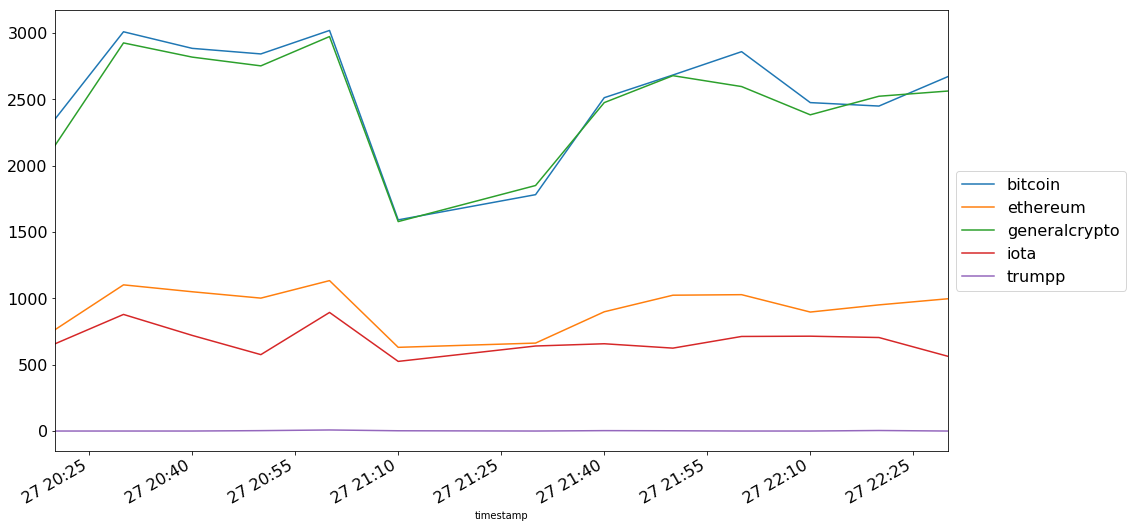
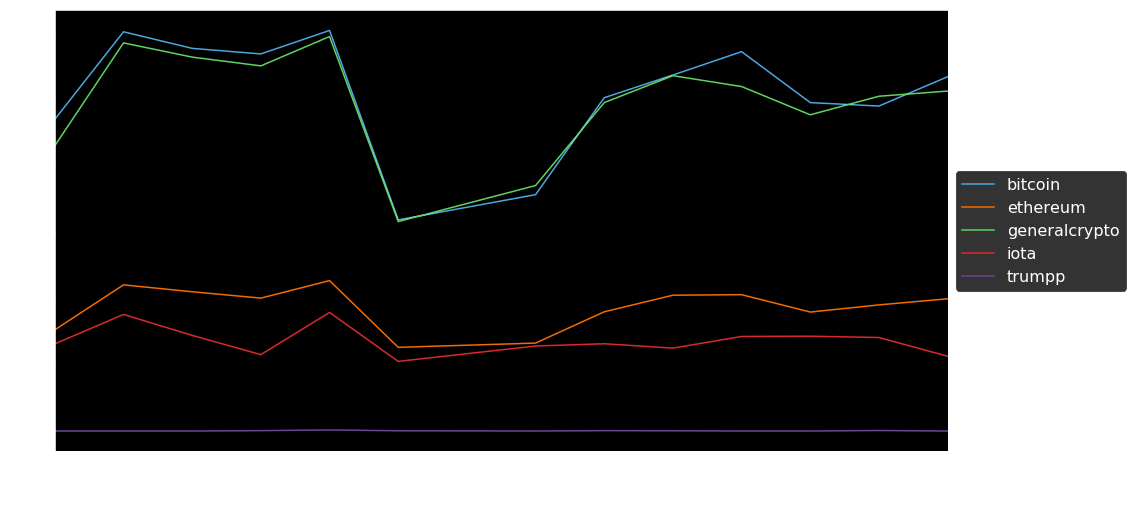
Invert image; Fix image css

diff --git a/assets/PITCHME.css b/assets/PITCHME.css
@@ -37,7 +37,13 @@
 
 .reveal .progress span {
     background: rgb(249, 38, 114);
-    ;
+
+}
+
+.reveal section img {
+    border: none;
+    background: none;
+    box-shadow: none;
 }
 
 #title-footer {
